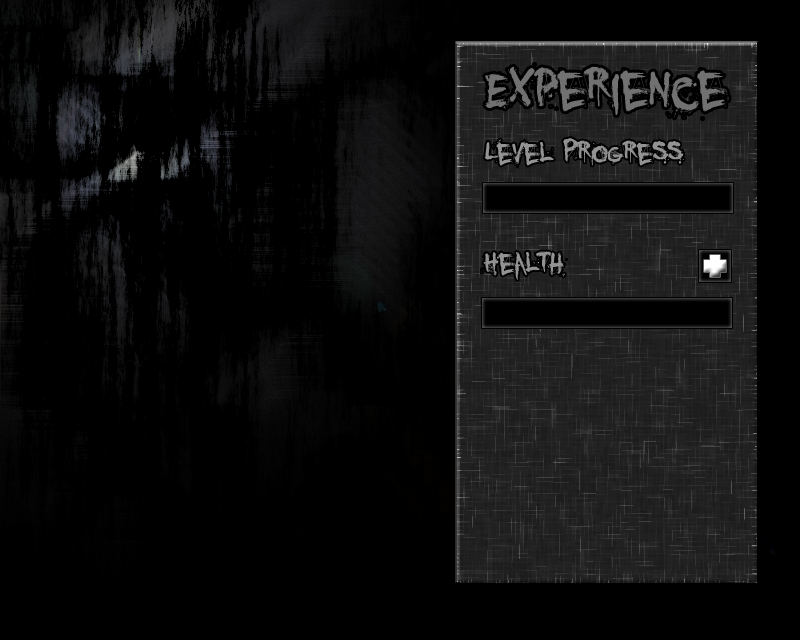
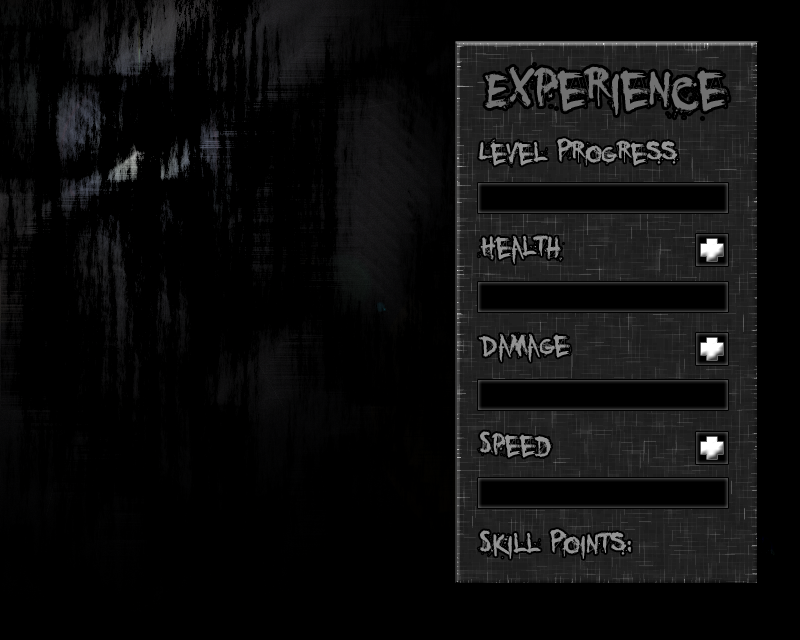
Added damage and speed attributes to enhance via the experience/leveling screen. The experience screen now draws bars to indicate how many levels in an attribute you have invested. They max out at 5. Modified other classes to compensate for new attributes. Current skill points are drawn at the botto

Changed region(s): [[0.5938, 0.2188, 0.9375, 0.875], [0.9062, 0.2812, 0.9375, 0.3438]]

diff --git a/GenericZombieShooter/src/genericzombieshooter/structures/components/LevelScreen.java b/GenericZombieShooter/src/genericzombieshooter/structures/components/LevelScreen.java
@@ -20,6 +20,7 @@ import genericzombieshooter.GZSFramework;
 import genericzombieshooter.actors.Player;
 import genericzombieshooter.misc.Images;
 import java.awt.Color;
+import java.awt.Font;
 import java.awt.FontMetrics;
 import java.awt.Graphics2D;
 import java.awt.event.MouseEvent;
@@ -38,19 +39,36 @@ public class LevelScreen {
     private static final String EXP_BAR_NAME = "Experience Bar";
     private static final String HEALTH_BAR_NAME = "Health Bar";
     private static final String HEALTH_BUTTON_NAME = "Add Health Button";
+    private static final String DAMAGE_BAR_NAME = "Damage Bar";
+    private static final String DAMAGE_BUTTON_NAME = "Add Damage Button";
+    private static final String SPEED_BAR_NAME = "Speed Bar";
+    private static final String SPEED_BUTTON_NAME = "Add Speed Button";
+    private static final String SKILL_POINTS_LABEL_NAME = "Skill Points";
     
     // Member Variables
     private BufferedImage background;
-    HashMap<String, Rectangle2D.Double> rects;
+    private HashMap<String, Rectangle2D.Double> rects;
+    
+    private int healthLevel;
+    private int damageLevel;
+    private int speedLevel;
     
     public LevelScreen() {
         this.background = GZSFramework.loadImage("/resources/images/GZS_LevelScreen.png");
         this.rects = new HashMap<String, Rectangle2D.Double>();
         { // Add rectangles to map.
-            this.rects.put(LevelScreen.EXP_BAR_NAME, new Rectangle2D.Double(488, 188, 240, 20));
-            this.rects.put(LevelScreen.HEALTH_BAR_NAME, new Rectangle2D.Double(487, 303, 240, 20));
-            this.rects.put(LevelScreen.HEALTH_BUTTON_NAME, new Rectangle2D.Double(700, 251, 30, 30));
+            this.rects.put(LevelScreen.EXP_BAR_NAME, new Rectangle2D.Double(482, 187, 242, 22));
+            this.rects.put(LevelScreen.HEALTH_BAR_NAME, new Rectangle2D.Double(482, 286, 242, 22));
+            this.rects.put(LevelScreen.HEALTH_BUTTON_NAME, new Rectangle2D.Double(697, 235, 30, 30));
+            this.rects.put(LevelScreen.DAMAGE_BAR_NAME, new Rectangle2D.Double(482, 384, 242, 22));
+            this.rects.put(LevelScreen.DAMAGE_BUTTON_NAME, new Rectangle2D.Double(697, 334, 30, 30));
+            this.rects.put(LevelScreen.SPEED_BAR_NAME, new Rectangle2D.Double(482, 482, 242, 22));
+            this.rects.put(LevelScreen.SPEED_BUTTON_NAME, new Rectangle2D.Double(697, 433, 30, 30));
+            this.rects.put(LevelScreen.SKILL_POINTS_LABEL_NAME, new Rectangle2D.Double(478, 529, 153, 30));
         } // End adding rectangles to map.
+        this.healthLevel = 0;
+        this.damageLevel = 0;
+        this.speedLevel = 0;
     }
     
     public void draw(Graphics2D g2d, Player player) {
@@ -68,16 +86,45 @@ public class LevelScreen {
                 int h = metrics.getHeight();
                 g2d.drawString(s, (int)(expBar.x + 5), (int)((expBar.y + (expBar.height / 2)) + (h / 3)));
             } // End drawing the experience bar.
-            { // Draw the health bar.
-                g2d.setColor(new Color(209, 21, 33));
+            { // Draw the health attribute progress bar.
                 Rectangle2D.Double healthBar = this.rects.get(LevelScreen.HEALTH_BAR_NAME);
-                double w = ((double)player.getHealth() / (double)player.getMaxHealth()) * healthBar.width;
-                g2d.fillRect((int)healthBar.x, (int)healthBar.y, (int)w, (int)healthBar.height);
+                for(int i = 0; i < this.healthLevel; i++) {
+                    int x = (int)((healthBar.x + 1) + (i * 48));
+                    g2d.setColor(new Color(209, 21, 33));
+                    g2d.fillRect(x, (int)healthBar.y, 48, 22);
+                    g2d.setColor(Color.BLACK);
+                    g2d.drawRect(x, (int)healthBar.y, 48, 22);
+                }
+            } // End drawing the health attribute progress bar.
+            { // Draw the damage attribute progress bar.
+                Rectangle2D.Double damageBar = this.rects.get(LevelScreen.DAMAGE_BAR_NAME);
+                for(int i = 0; i < this.damageLevel; i++) {
+                    int x = (int)((damageBar.x + 1) + (i * 48));
+                    g2d.setColor(new Color(209, 21, 33));
+                    g2d.fillRect(x, (int)damageBar.y, 48, 22);
+                    g2d.setColor(Color.BLACK);
+                    g2d.drawRect(x, (int)damageBar.y, 48, 22);
+                }
+            } // End drawing the damage attribute progress bar.
+            { // Draw the speed attribute progress bar.
+                Rectangle2D.Double speedBar = this.rects.get(LevelScreen.SPEED_BAR_NAME);
+                for(int i = 0; i < this.speedLevel; i++) {
+                    int x = (int)((speedBar.x + 1) + (i * 48));
+                    g2d.setColor(new Color(209, 21, 33));
+                    g2d.fillRect(x, (int)speedBar.y, 48, 22);
+                    g2d.setColor(Color.BLACK);
+                    g2d.drawRect(x, (int)speedBar.y, 48, 22);
+                }
+            } // End drawing the speed attribute progress bar.
+            { // Draw the number of skill points the player has.
+                Font f = g2d.getFont();
+                g2d.setFont(new Font("Arial", Font.BOLD, 30));
                 g2d.setColor(Color.WHITE);
-                String s = player.getHealth() + " / " + player.getMaxHealth();
-                int h = metrics.getHeight();
-                g2d.drawString(s, (int)(healthBar.x + 5), (int)((healthBar.y + (healthBar.height / 2)) + (h / 3)));
-            } // End drawing the health bar.
+                Rectangle2D.Double rect = this.rects.get(LevelScreen.SKILL_POINTS_LABEL_NAME);
+                int x = (int)((rect.x + rect.width) + 10);
+                g2d.drawString(("" + player.getSkillPoints()), x, (int)((rect.y + rect.height) - 5));
+                g2d.setFont(f);
+            } // End drawing the number of skill points the player has.
         } // End drawing mapped rectangles.
     }
     
@@ -91,7 +138,16 @@ public class LevelScreen {
         { // Check Add Health Button
             if(this.rects.get(LevelScreen.HEALTH_BUTTON_NAME).contains(mousePos)) {
                 // Attempt to raise the player's max health.
-                player.spendPoint(Player.MAX_HEALTH_ID);
+                int val = player.spendPoint(Player.MAX_HEALTH_ID, this.healthLevel);
+                if(val == 1) this.healthLevel++;
+            } else if(this.rects.get(LevelScreen.DAMAGE_BUTTON_NAME).contains(mousePos)) {
+                // Attempt to raise the player's damage.
+                int val = player.spendPoint(Player.DAMAGE_ID, this.damageLevel);
+                if(val == 1) this.damageLevel++;
+            } else if(this.rects.get(LevelScreen.SPEED_BUTTON_NAME).contains(mousePos)) {
+                // Attempt to raise the player's speed.
+                int val = player.spendPoint(Player.SPEED_ID, this.speedLevel);
+                if(val == 1) this.speedLevel++;
             }
         } // End checking Add Health Button
     }

diff --git a/GenericZombieShooter/src/genericzombieshooter/actors/Player.java b/GenericZombieShooter/src/genericzombieshooter/actors/Player.java
@@ -48,7 +48,9 @@ public class Player extends Rectangle2D.Double {
     public static final int MAX_HEALTH_ID = 1;
     private static final int MAX_HEALTH_INC = 50;
     public static final int DAMAGE_ID = 2;
+    private static final double DAMAGE_INC = 0.2;
     public static final int SPEED_ID = 3;
+    private static final double SPEED_INC = 0.2;
     
     // Member variables.
     private AffineTransform af;
@@ -57,7 +59,9 @@ public class Player extends Rectangle2D.Double {
     
     private int health;
     private int maxHealth;
+    private double damageBonus;
     private double speed;
+    private double speedBonus;
     private int cash;
     
     private int experience;
@@ -101,7 +105,9 @@ public class Player extends Rectangle2D.Double {
 
         this.health = Player.DEFAULT_HEALTH;
         this.maxHealth = Player.DEFAULT_HEALTH;
+        this.damageBonus = 0;
         this.speed = Player.MOVE_SPEED;
+        this.speedBonus = 0;
         this.cash = 0;
         
         this.experience = 0;
@@ -135,6 +141,7 @@ public class Player extends Rectangle2D.Double {
 
     public int getHealth() { return this.health; }
     public int getMaxHealth() { return this.maxHealth; }
+    public double getDamageBonus() { return this.damageBonus; }
     public int getCash() { return this.cash; }
     public void addCash(int amount) { this.cash += amount; }
     public void removeCash(int amount) { this.cash -= amount; }
@@ -144,6 +151,7 @@ public class Player extends Rectangle2D.Double {
         return ((this.level * 1000) + (((int)(this.level / 4)) * 2000));
     }
     public int getLevel() { return this.level; }
+    public int getSkillPoints() { return this.skillPoints; }
     public void addKill() { this.killCount++; }
     public void takeDamage(int damage_) { this.health -= damage_; }
     public void addHealth(int amount) { 
@@ -158,29 +166,52 @@ public class Player extends Rectangle2D.Double {
         this.lives--;
         if(this.lives > 0) reset();
     }
-    public void spendPoint(int id) {
+    public int spendPoint(int id, int currentLevel) {
         if(id == Player.MAX_HEALTH_ID) {
-            // Determine if player has enough points to buy the next upgrade.
-            int maxHealthLevel = (int)((this.maxHealth - Player.DEFAULT_HEALTH) / Player.MAX_HEALTH_INC);
-            if(this.skillPoints >= (maxHealthLevel + 1)) {
+            // Determine if player has enough points to buy the next upgrade.;
+            if(this.skillPoints >= (currentLevel + 1)) {
                 // Determine if the player has already maxed out this skill.
-                if(maxHealthLevel < 5) {
+                if(currentLevel < 5) {
                     // Deduct the appropriate number of skill points and raise the skill to the next level.
-                    this.skillPoints -= (maxHealthLevel + 1);
+                    this.skillPoints -= (currentLevel + 1);
                     this.maxHealth += Player.MAX_HEALTH_INC;
                     this.addHealth(Player.MAX_HEALTH_INC);
                     synchronized(Globals.GAME_MESSAGES) { Globals.GAME_MESSAGES.add(new Message("Max Health increased!", 5000)); }
+                    return 1;
                 }
             }
         } else if(id == Player.DAMAGE_ID) {
-            
+            // Determine if player has enough points to buy the next upgrade.
+            if(this.skillPoints >= (currentLevel + 1)) {
+                // Determine if the player has already maxed out this skill.
+                if(currentLevel < 5) {
+                    // Deduct the appropriate number of skill points and raise the skill to the next level.
+                    this.skillPoints -= (currentLevel + 1);
+                    this.damageBonus += Player.DAMAGE_INC;
+                    synchronized(Globals.GAME_MESSAGES) { Globals.GAME_MESSAGES.add(new Message("Damage increased!", 5000)); }
+                    return 1;
+                }
+            }
         } else if(id == Player.SPEED_ID) {
-            
+            // Determine if player has enough points to buy the next upgrade.
+            if(this.skillPoints >= (currentLevel + 1)) {
+                // Determine if the player has already maxed out this skill.
+                if(currentLevel < 5) {
+                    // Deduct the appropriate number of skill points and raise the skill to the next level.
+                    this.skillPoints -= (currentLevel + 1);
+                    this.speedBonus += Player.SPEED_INC;
+                    synchronized(Globals.GAME_MESSAGES) { Globals.GAME_MESSAGES.add(new Message("Speed increased!", 5000)); }
+                    return 1;
+                }
+            }
         }
+        return 0;
     }
     public void reset() {
         if(this.lives == 0) {
             this.maxHealth = Player.DEFAULT_HEALTH;
+            this.damageBonus = 0;
+            this.speedBonus = 0;
             this.cash = 0;
             
             this.experience = 0;
@@ -202,6 +233,7 @@ public class Player extends Rectangle2D.Double {
         this.lastPoisoned = System.currentTimeMillis();
         
         this.health = this.maxHealth;
+        this.speed = Player.MOVE_SPEED;
         this.experienceMultiplier = 1;
         this.currentWeaponName = Globals.HANDGUN.getName();
         this.x = (Globals.W_WIDTH / 2) - (this.width / 2);
@@ -336,10 +368,10 @@ public class Player extends Rectangle2D.Double {
 
     // Player manipulation.
     public void move(int direction) {
-        if(direction == 0) y -= this.speed;
-        else if(direction == 1) x -= this.speed;
-        else if(direction == 2) y += this.speed;
-        else if(direction == 3) x += this.speed;
+        if(direction == 0) y -= (this.speed + this.speedBonus);
+        else if(direction == 1) x -= (this.speed + this.speedBonus);
+        else if(direction == 2) y += (this.speed + this.speedBonus);
+        else if(direction == 3) x += (this.speed + this.speedBonus);
         this.light.move(new Point2D.Double((int)this.getCenterX(), (int)this.getCenterY()));
     }
     

diff --git a/GenericZombieShooter/src/genericzombieshooter/actors/Zombie.java b/GenericZombieShooter/src/genericzombieshooter/actors/Zombie.java
@@ -36,7 +36,7 @@ public class Zombie extends Point2D.Double {
     private Animation img;
     
     private int type;
-    private int health; // How much health the zombie has.
+    private double health; // How much health the zombie has.
     private int damage; // How much damage the zombie does per tick to the player.
     private double speed; // How fast the zombie moves.
     private int cashValue; // How many points the zombie is worth.
@@ -60,7 +60,7 @@ public class Zombie extends Point2D.Double {
         // To be overridden.
     }
     public int getType() { return this.type; }
-    public int getHealth() { return this.health; }
+    public double getHealth() { return this.health; }
     public void takeDamage(int damage_) { this.health -= damage_; }
     public int getDamage() { return this.damage; }
     public int getCashValue() { return this.cashValue; }

diff --git a/GenericZombieShooter/src/genericzombieshooter/GZSFramework.java b/GenericZombieShooter/src/genericzombieshooter/GZSFramework.java
@@ -148,6 +148,11 @@ public class GZSFramework {
                                 Globals.paused = true;
                             }
                         }
+                        if (key == KeyEvent.VK_C) {
+                            if(Globals.started && !Globals.paused && !Globals.storeOpen && !Globals.levelScreenOpen) {
+                                player.addExp(5000);
+                            }
+                        }
                         if (key == Globals.HANDGUN.getKey()) {
                             int r = player.setWeapon(Globals.HANDGUN.getName());
                             if(r == 1) loadout.setCurrentWeapon(Globals.HANDGUN.getName());

diff --git a/GenericZombieShooter/src/genericzombieshooter/structures/ZombieWave.java b/GenericZombieShooter/src/genericzombieshooter/structures/ZombieWave.java
@@ -164,6 +164,7 @@ public class ZombieWave {
                     while(wit.hasNext()) {
                         Weapon w = wit.next();
                         int damage = w.checkForDamage(z.getRect());
+                        if(player.getDamageBonus() > 0) damage += (damage * player.getDamageBonus());
                         if(damage > 0) {
                             z.takeDamage(damage);
                             if(z.isDead()) {

diff --git a/GenericZombieShooter/src/genericzombieshooter/misc/Globals.java b/GenericZombieShooter/src/genericzombieshooter/misc/Globals.java
@@ -39,7 +39,7 @@ import java.util.Random;
  */
 public class Globals {
     // Game Information
-    public static final String VERSION = "0.9.4";
+    public static final String VERSION = "0.9.6";
     public static final int W_WIDTH = 800; // The width of the game window.
     public static final int W_HEIGHT = 640; // The height of the game window.
     public static final long SLEEP_TIME = 20; // The sleep time of the animation thread.
